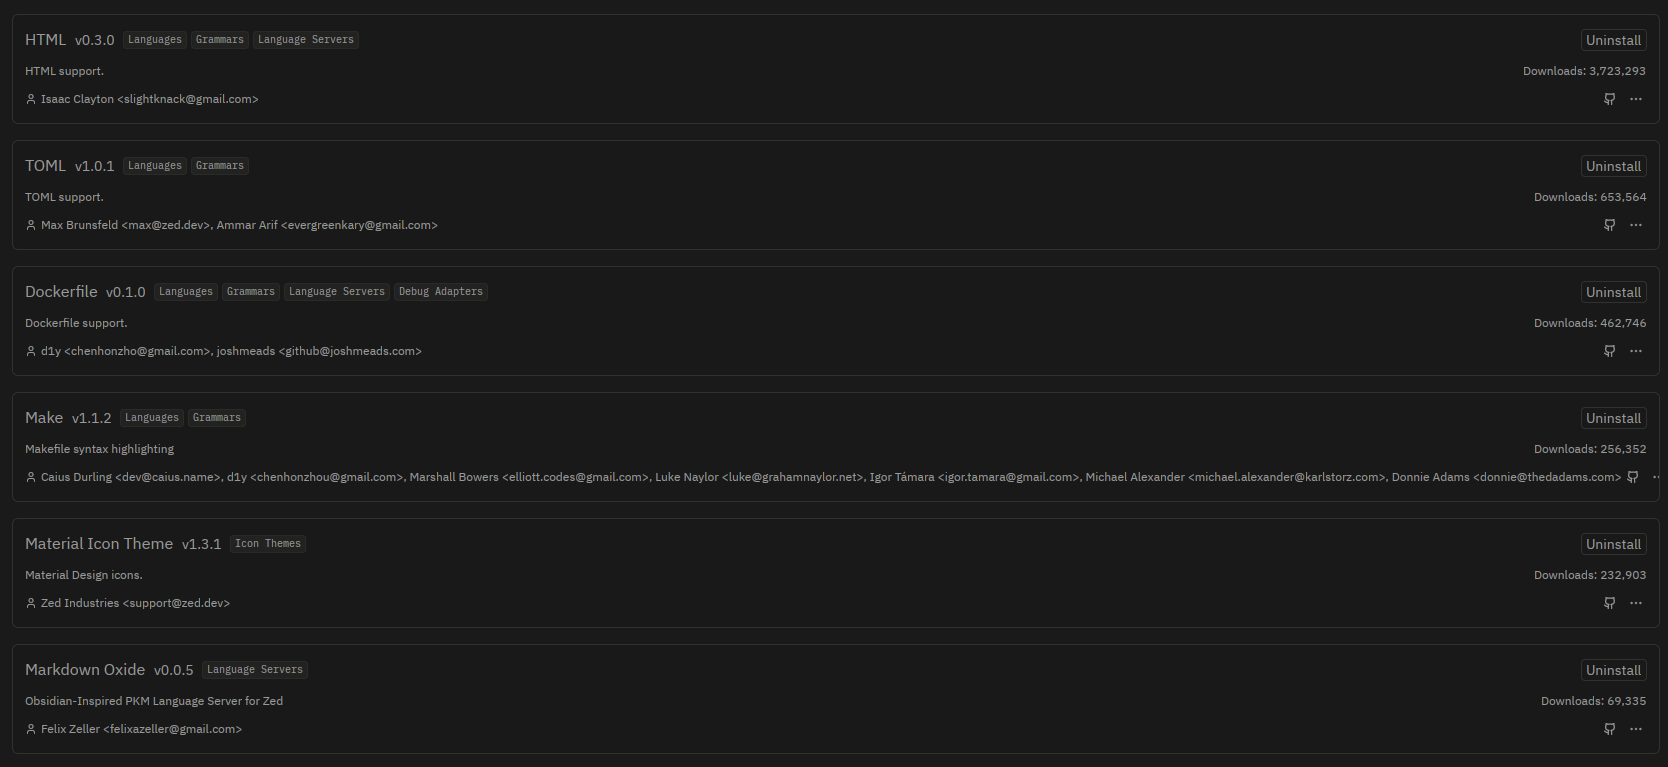
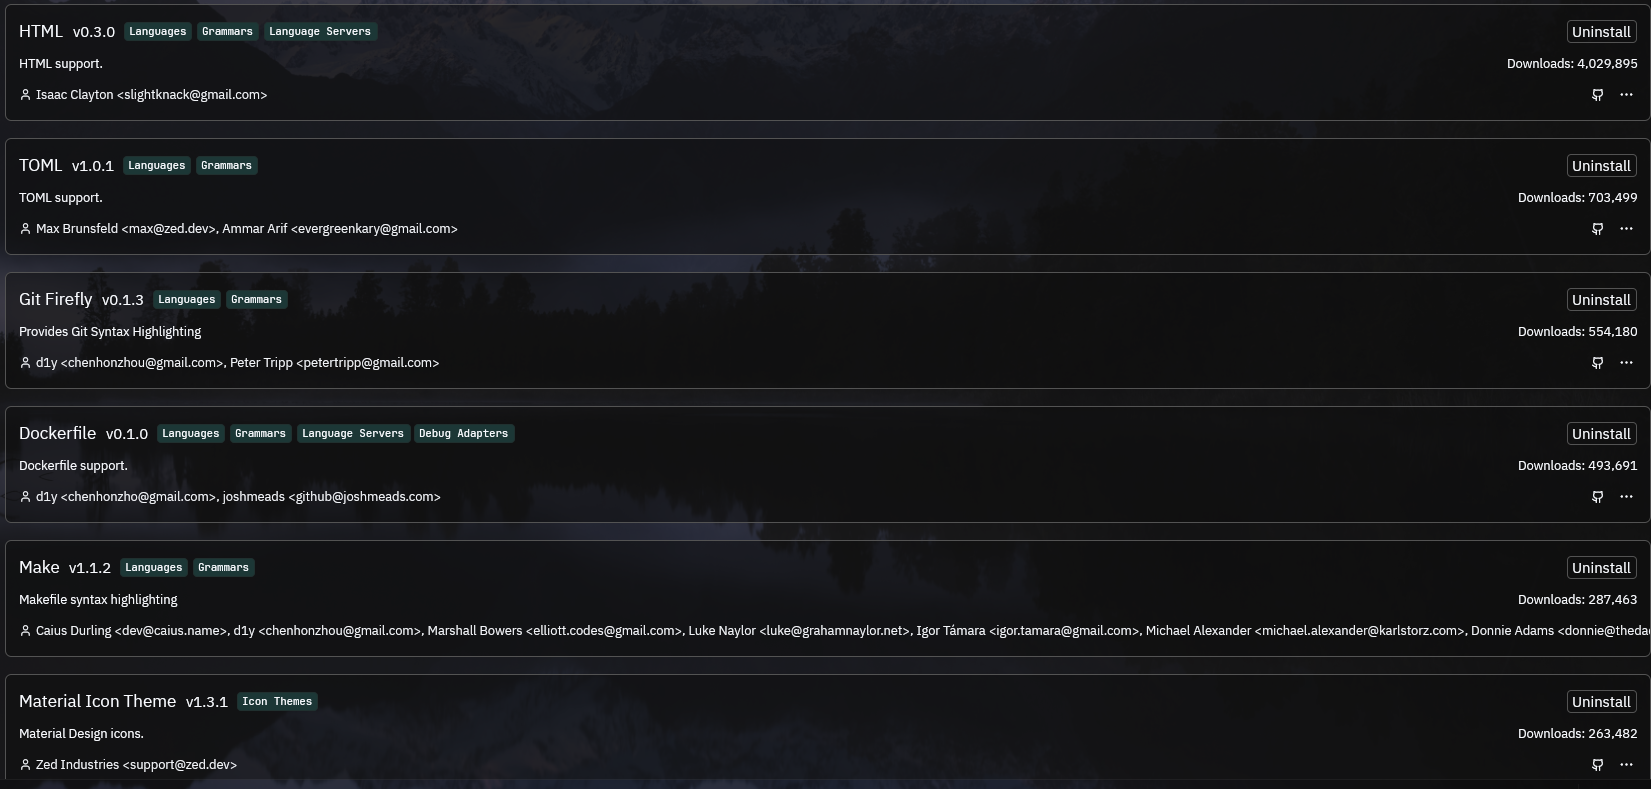
Update my zed configs

diff --git a/README.md b/README.md
@@ -1,4 +1,22 @@
-## On fedora:
+# On fedora:
+
+## Install somethings with `install.sh`
+
+`chmod +x install.sh`
+
+`./install.sh`
+
+## Font:
+
+`sudo dnf install fontconfig`
+
+`curl -O https://raw.githubusercontent.com/loadedk/nerd-font-fedora-script/main/nerd-font-installer.sh
+chmod +x nerd-font-installer.sh
+./nerd-font-installer.sh`
+
+The font will be installed on: `~/.local/share/fonts/`
+
+## Languages and LSPs:
 
 ### Rust
 depencencies first:
@@ -25,7 +43,10 @@ depencencies first:
 
 `go install golang.org/x/tools/gopls@latest`
 
-### asm-lsp
+### NASM and Asm-Lsp
+
+`sudo dnf install nasm ld -y`
+
 `cargo install asm-lsp`
 
 Create `.asm-lsp.toml` with this:
@@ -57,42 +78,18 @@ diagnostics = true
 default_diagnostics = false
 ```
 
-add on `~/.config/asm-lsp`
+add this file on `~/.config/asm-lsp`
 
 ### gcc and clangd
 `sudo dnf install clang clang-tools-extra -y`
 
 `sudo dnf install gcc gcc-c++ gdb make -y`
 
-ZSH:
+## Wallpaper:
 
-```
-cat << 'EOF' >> ~/.zshrc
+<img src="./wallpaper/wallpaper.jpg" width="750px">
 
-# Go
-export PATH="/usr/local/go/bin:$PATH"
-export PATH="$(go env GOPATH)/bin:$PATH"
-
-# Rust / Cargo (asm-lsp)
-export PATH="$HOME/.cargo/bin:$PATH"
-EOF
-```
-
-BASH:
-
-```
-cat << 'EOF' >> ~/.bashrc
-
-# Go
-export PATH="/usr/local/go/bin:$PATH"
-export PATH="$(go env GOPATH)/bin:$PATH"
-
-# Rust / Cargo (asm-lsp)
-export PATH="$HOME/.cargo/bin:$PATH"
-EOF
-```
-
-## Extentions 
+## Extentions:
 
 <img src="./images/img1.png">
 
